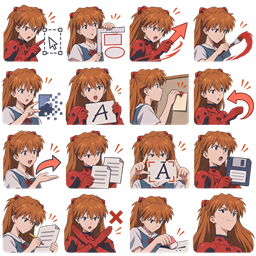
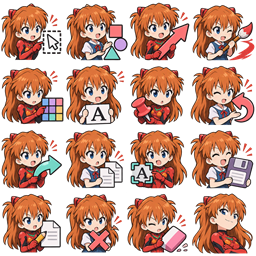
feat: make theme toolbars chibi

diff --git a/tests/test_build_scripts.py b/tests/test_build_scripts.py
@@ -4571,7 +4571,7 @@ class ReleaseVersionTest(unittest.TestCase):
         project(...) 在文件第 2 行。
         """
         cmake = (REPO_ROOT / "CMakeLists.txt").read_text(encoding="utf-8")
-        self.assertEqual(self.resolver.parse_base_version(cmake), "1.7.12")
+        self.assertEqual(self.resolver.parse_base_version(cmake), "1.7.13")
 
     def test_version_comparison_uses_components_not_prefixes(self) -> None:
         """版本比较必须按分量，不能只做字符串前缀比较。

diff --git a/.release/v1.7.13.md b/.release/v1.7.13.md
@@ -1,0 +1,7 @@
+# Snap-Lite v1.7.13
+
+- 九套角色主题工具栏图集统一改为 Q 版头身和贴纸构图。
+- 每格加入不同动作与功能道具，并保留各主题角色的服饰、配色和识别特征。
+- 继续提供更新器所需的纯文本更新说明。
+
+Windows 11 x64。

diff --git a/README.md b/README.md
@@ -114,5 +114,5 @@ python scripts/verify_generated_sources.py build
 发布版本号解析（纯函数，可单测）：
 
 ```powershell
-python scripts/resolve_release_version.py --base-version 1.7.12
+python scripts/resolve_release_version.py --base-version 1.7.13
 ```
